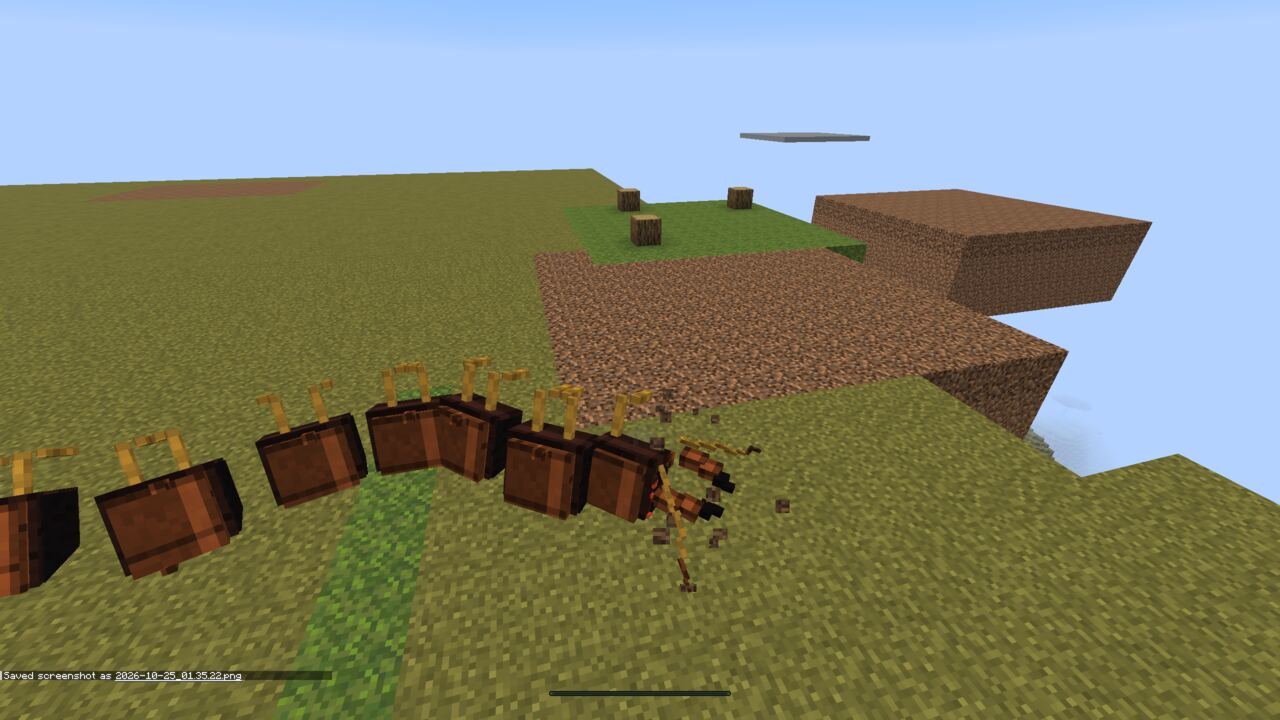
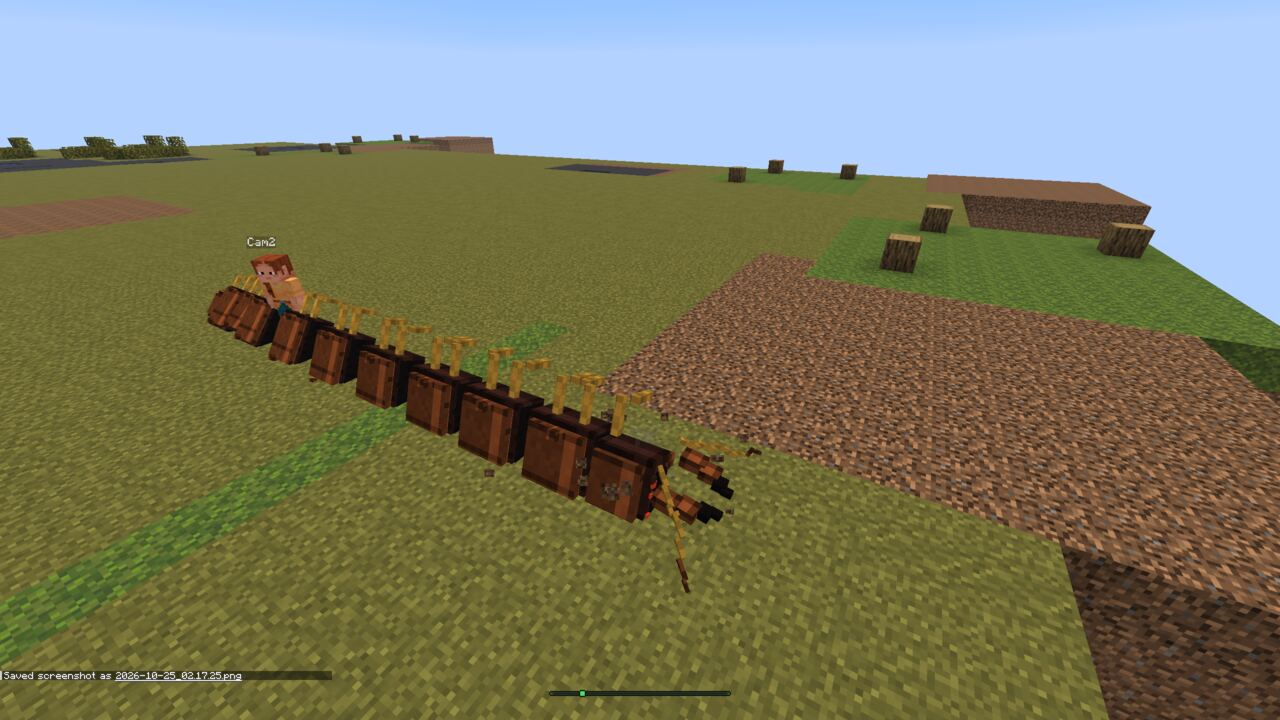
T-018 sixth pass: the scolopendra rears higher and more often, its body blow throws the player back; the warg bites from a distance and keeps its maw in front of the prey

diff --git a/tools/test_lab.py b/tools/test_lab.py
@@ -99,6 +99,11 @@ def t_warg():
         time.sleep(0.1); seen.add(score("@e[tag=le.lab_warg,limit=1]", "le.lan"))
         if 2 in seen and "b" not in seen: seen.add("b"); look("le.lab_warg", 3.5, 0.8, 40); shot("warg_bite"); shot("warg_bite", "Cam2")
     chk("it gallops and bites with its jaw (modes seen %s)" % sorted(x for x in seen if isinstance(x, int)), 2 in seen)
+    dmin = 99
+    for i in range(30):
+        time.sleep(0.1); pw, pc = pos("@e[tag=le.lab_warg,limit=1]"), pos("Cam2")
+        if pw and pc: dmin = min(dmin, ((pw[0] - pc[0]) ** 2 + (pw[2] - pc[2]) ** 2) ** 0.5)
+    chk("it keeps its muzzle in front of the prey: never closer than ~2 blocks (min %.2f)" % dmin, dmin > 1.8)
     R("tp Cam2 800.5 200 770.5 0 0"); time.sleep(0.6); look("le.lab_warg", 5, 1.0, 80); shot("warg_run")
     time.sleep(1.5); look("le.lab_warg", 4, 1.0, 50); shot("warg_attack"); shot("warg_attack", "Cam2")
     chk("its bite bleeds: the Blood wound (le.wbl)", (score("Cam2", "le.wbl") or 0) > 0, score("Cam2", "le.wbl"))
@@ -173,14 +178,17 @@ def t_fish():
     chk("10 body segments with hit boxes follow the head (%s / %s), spread along the path %s" % (segs, boxes, [round(p[2], 1) for p in sp if p]), "10" in segs and "10" in boxes and sp[0] and sp[2] and abs(sp[0][2] - sp[2][2]) + abs(sp[0][0] - sp[2][0]) > 4)
     look("le.lab_fish", 6, 2.5, 70); shot("fish_body"); shot("fish_body", "Cam2")
     # the rearing: the prey 5 blocks in front of it
-    R("execute as @e[tag=le.lab_fish,limit=1] at @s rotated ~ 0 positioned ^ ^ ^5 run tp Cam2 ~ ~ ~ facing entity @e[tag=le.lab_fish,limit=1] feet"); R("scoreboard players set @e[tag=le.lab_fish] le.llook 1"); R("scoreboard players set @e[tag=le.lab_fish] le.lfd 200")
-    rs = False
-    for i in range(30):
-        time.sleep(0.1)
-        if (score("@e[tag=le.lab_fish,limit=1]", "le.lfr") or 0) > 0: rs = True; break
-    time.sleep(0.8); look("le.lab_fish", 7, 1.5, 70); shot("fish_rear"); shot("fish_rear", "Cam2"); hb = num(R("data get entity Cam2 Health")); time.sleep(1.2); shot("fish_slam")
-    ha = num(R("data get entity Cam2 Health"))
-    chk("it rears up (%s) and strikes down with its whole body (prey health %s -> %s)" % (rs, hb, ha), rs and ha is not None and hb is not None and ha < hb)
+    R("execute as @e[tag=le.lab_fish,limit=1] at @s rotated ~ 0 positioned ^ ^ ^4.2 run tp Cam2 ~ ~ ~ facing entity @e[tag=le.lab_fish,limit=1] feet"); R("scoreboard players set @e[tag=le.lab_fish] le.llook 1"); R("scoreboard players set @e[tag=le.lab_fish] le.lfd 200")
+    rs = False; hb = num(R("data get entity Cam2 Health")); hmin = hb; p0 = pos("Cam2"); dmax = 0; ymax = p0[1]; shot_done = False
+    for i in range(50):
+        time.sleep(0.05)
+        if (score("@e[tag=le.lab_fish,limit=1]", "le.lfr") or 0) > 0: rs = True
+        if rs and not shot_done and (score("@e[tag=le.lab_fish,limit=1]", "le.lfr") or 99) < 22: shot_done = True; look("le.lab_fish", 7, 1.5, 70); shot("fish_rear"); shot("fish_rear", "Cam2")
+        h = num(R("data get entity Cam2 Health")); p = pos("Cam2")
+        if h is not None: hmin = min(hmin, h)
+        if p: dmax = max(dmax, ((p[0] - p0[0]) ** 2 + (p[2] - p0[2]) ** 2) ** 0.5); ymax = max(ymax, p[1])
+    shot("fish_slam")
+    chk("it rears up (%s) and strikes with its whole body: health %s -> %s, thrown back %.1f and up %.1f blocks" % (rs, hb, hmin, dmax, ymax - p0[1]), rs and hmin < hb and dmax > 1.5)
     time.sleep(1.0)
     h0 = num(R("data get entity @e[tag=le.lab_fish,limit=1] Health")); R("tp Cam2 @e[tag=le.cs6,limit=1]"); R("execute as Cam2 at @s run tp @s ~ ~ ~-1.5 0 30")
     R("execute as @e[tag=le.cb6] run data merge entity @s {attack:{player:[I;0,0,0,0],timestamp:0L}}")

diff --git a/tools/gen_lab.py b/tools/gen_lab.py
@@ -447,7 +447,7 @@ def rear(fname, D, pitch, dur, claws_open):
         t = tuple(a + b + c for a, b, c in zip(HEAD_T0, D, qrot(Q, o)))
         out.append(f"execute on passengers if entity @s[tag={tg}] run data merge entity @s " + merge(t, qmul(Q, qeul(*e)), 1.5, dur))
     wtext(os.path.join(gd, f"cent_rear_{fname}.mcfunction"), "\n".join(out) + "\n")
-rear("up", (0, 2.3, -0.9), -30, 10, True)
+rear("up", (0, 3.1, -1.2), -35, 12, True)
 rear("slam", (0, 0.1, 1.4), 25, 3, False)
 rear("back", (0, 0, 0), 0, 6, False)
 lg = ["# GENERATED: the legs of the body step (models a/b swap; neighbours in the other phase), macro p = 0 or 1"]

diff --git a/docs/reports/T-018-report.md b/docs/reports/T-018-report.md
@@ -237,3 +237,9 @@
 - Не для бессонницы, но пригодятся: дыхание (женский надменно-усталый вздох), смех (низкий мужской, насмешка), **плач** — страшные места по ходу игры, стук — замки, скрип — дерево, **шаги** — страшные места.
 - **Подключено:** в бессоннице остаются ванильные звуки (`halluc/whisper`), а в 1 случае из 3 через 2–4 с за спиной звучит настоящий шёпот 1–4 (`halluc/whisper_late`, счёт `le.hwl`, слышит только сам игрок). Тот же модуль зовёт и кольцо, так что шёпот появился и в его плате.
 - Для прослушивания у каждого варианта `sfx.mind.*` своё событие: `sfx.mind.<звук>.<номер>`.
+
+## Шестая правка (25.10)
+
+- **Сколопендра** встаёт выше (голова ~3 блока над землёй, дугой поднимаются 4 передних сегмента) и чаще (раз в 6,5–10 с, если добыча в 3–5 блоках). Удар корпусом: урон 9, игрока отбрасывает назад порывом ветра (~3,5 блока) и немного вверх, затем медленное падение (без урона от падения). Замер ботом.
+- **Варг** кусает сам (урон волка 0, свой укус на 6 + Кровь из пасти на дистанции до ~3,8 блока); ближе 2,3 блока отступает — держит морду перед игроком, игрок видит пасть, а не спину. Замер: держится в 2–3 блоках. Откат укуса 1,5 с.
+- Размеры Эдвард подтвердил.
